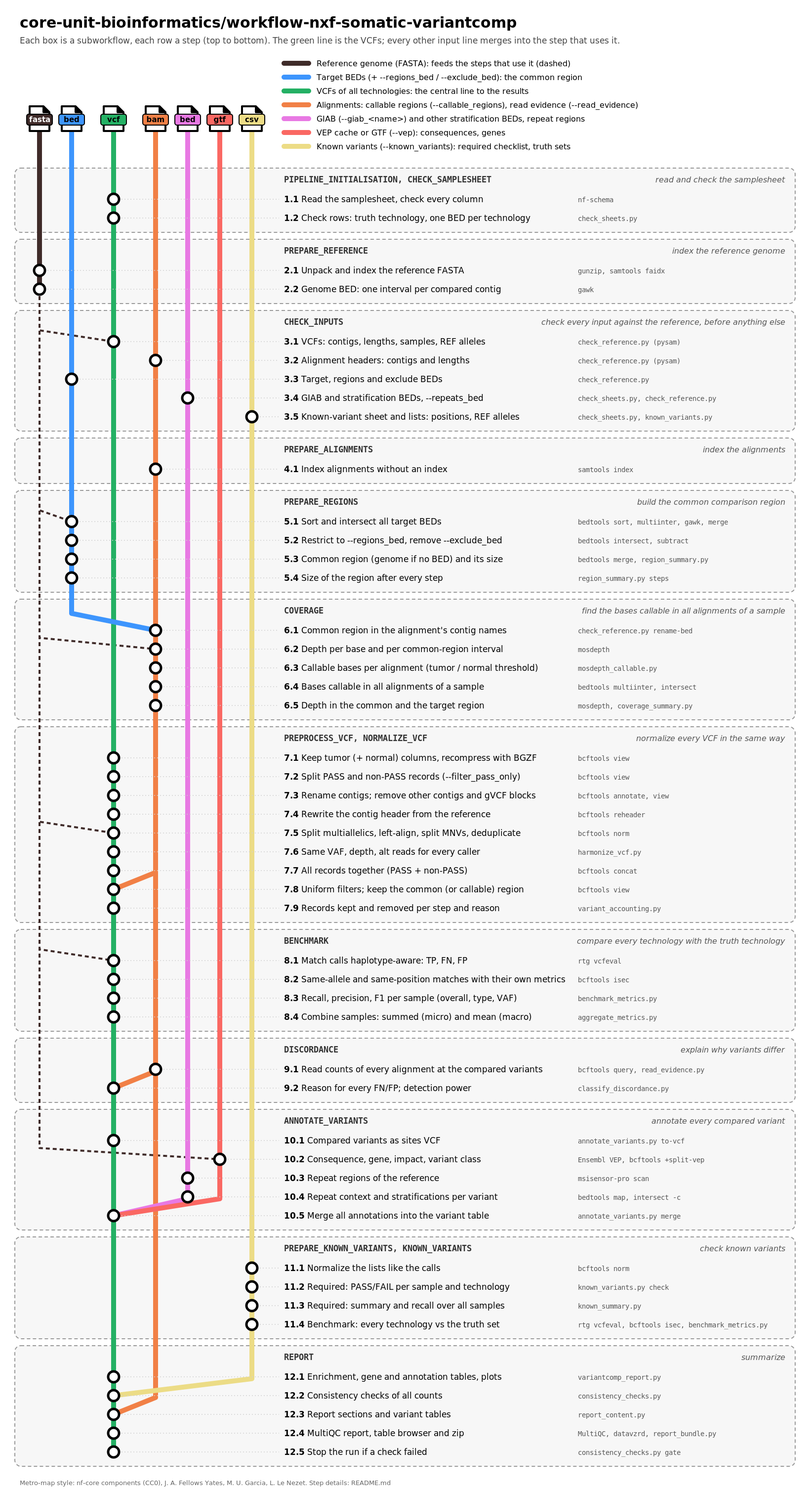
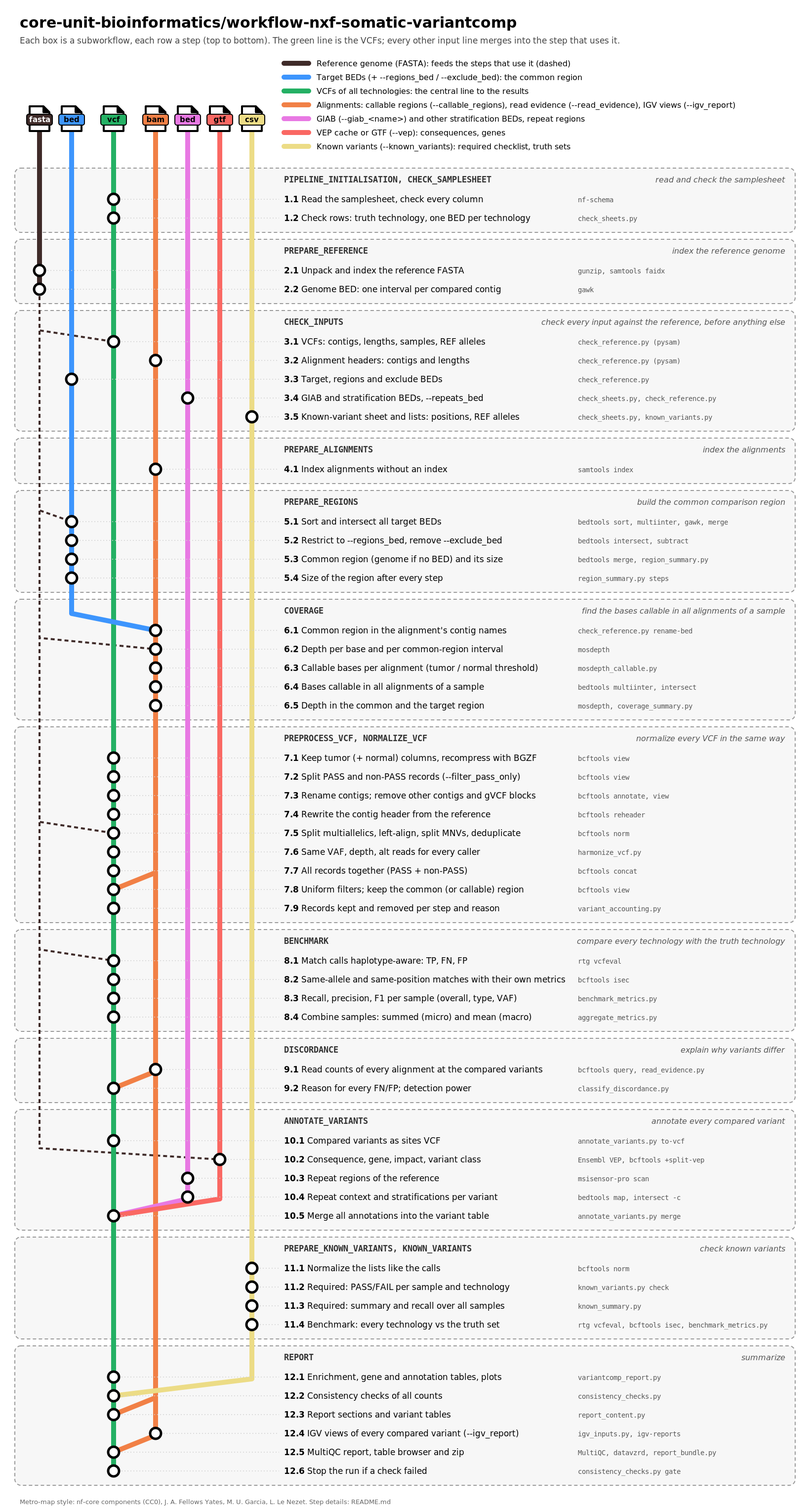
Docs for the IGV views (D40): usage, output, CHANGELOG, citations, metro map step 12.4

diff --git a/scripts/make_metro_map.py b/scripts/make_metro_map.py
@@ -38,7 +38,7 @@ TRACKS = {
     "bam": (
         "#F18046",
         "bam",
-        "Alignments: callable regions (--callable_regions), read evidence (--read_evidence)",
+        "Alignments: callable regions (--callable_regions), read evidence (--read_evidence), IGV views (--igv_report)",
     ),
     "annot": (
         "#E879E3",
@@ -313,11 +313,17 @@ BANDS = [
             ),
             (
                 "12.4",
+                "IGV views of every compared variant (--igv_report)",
+                "igv_inputs.py, igv-reports",
+                "bam",
+            ),
+            (
+                "12.5",
                 "MultiQC report, table browser and zip",
                 "MultiQC, datavzrd, report_bundle.py",
                 "core",
             ),
-            ("12.5", "Stop the run if a check failed", "consistency_checks.py gate", "core"),
+            ("12.6", "Stop the run if a check failed", "consistency_checks.py gate", "core"),
         ],
     ),
 ]
@@ -349,8 +355,8 @@ LINES = [
             "12.1",
             "12.2",
             "12.3",
-            "12.4",
             "12.5",
+            "12.6",
         ],
     ),
     ("ref", ["2.1", "2.2"]),
@@ -358,6 +364,7 @@ LINES = [
     ("bam", ["3.2", "4.1", "6.1", "6.2", "6.3", "6.4", "7.8"]),
     ("bam", ["6.4", "6.5", "12.3"]),
     ("bam", ["6.4", "9.1", "9.2"]),
+    ("bam", ["9.1", "12.4", "12.5"]),
     ("annot", ["3.4", "10.3", "10.4", "10.5"]),
     ("vep", ["10.2", "10.5"]),
     ("known", ["3.5", "11.1", "11.2", "11.3", "11.4", "12.2"]),
@@ -413,8 +420,9 @@ DETAILS = {
     "12.1": "Are discordant variants enriched for indels, low VAF, non-synonymous consequences, repeats, strata or genes (Fisher's exact test, Benjamini-Hochberg from SciPy)? Discordance per annotation value, gene table, plots.",
     "12.2": "At the end: do the counts of all steps add up (accounting per VCF, metrics vs. variant tables, aggregation over samples, discordance classes, regions, required variants)? `report/consistency_checks.tsv`.",
     "12.3": "The variantcomp sections of the MultiQC report (summary cards, introduction, recall/precision per sample with a toggle of the matching method, truth variants found, known variants, why variants differ, discordant variants in detail, metrics per sample, region in Mbp, filtering, coverage, checks; vertical bars with the samples on the x-axis) and the linked variant tables of datavzrd (gene and HGVS.p first, coloured status columns, links to dbSNP, COSMIC, Ensembl).",
-    "12.4": "MultiQC: the main report, results first, then the QC of every step (input checks, bcftools norm, harmonization, mosdepth, VEP) and the software versions; datavzrd: `report/tables/`, with the MultiQC report as a page; `report/variantcomp_report.zip` with both reports.",
-    "12.5": "A failed consistency check stops the run with an error, after all reports were written.",
+    "12.4": "With `--igv_report`: one igv-reports page per sample (in parts of `--igv_max_sites` sites) with every compared variant and the required known variants, the tumor and normal alignment and the normalized VCF of every technology; igv.js is inlined, so the pages work offline. Every variant table links its row to the page (`#<variant_id>`): `report/igv/`.",
+    "12.5": "MultiQC: the main report, results first, then the QC of every step (input checks, bcftools norm, harmonization, mosdepth, VEP) and the software versions; datavzrd: `report/tables/`, with the MultiQC report as a page; `report/variantcomp_report.zip` with both reports and the IGV views.",
+    "12.6": "A failed consistency check stops the run with an error, after all reports were written.",
 }
 
 # geometry

diff --git a/docs/pipeline-plan.md b/docs/pipeline-plan.md
@@ -411,6 +411,7 @@ vcf-comp-dev/                                  # workspace (no git)
 | D37 | MultiQC as the main report (user, 2026-10-26; replaces the narrative report of D33) | The MultiQC report is the main report: variantcomp sections (`bin/report_content.py`, `REPORT_CONTENT`) first, ordered by importance (Summary cards with recall/precision/F1 per matching method, Introduction as lists, recall vs. precision scatter 0-1 with hover and a method toggle, truth variants found, known variants, why variants differ, discordant variants in detail, metrics per sample, region in Mbp with every target BED, filtering, coverage), then the QC of the steps, consistency checks, methods and versions. Bar plots are vertical with the samples on the x-axis (Plotly of the MultiQC report, following the toolbox; MultiQC's own bars are horizontal only). No table with more than 15 variant rows in MultiQC: the variant tables live in datavzrd, which gets descriptions, gene + HGVS.p first, coloured status columns, links (GeneCards, Ensembl, dbSNP, COSMIC), detail views and a page with the MultiQC report. VEP `--hgvs` by default; `reasons` column with every discordance reason. `report/variantcomp_report.zip` packs both reports with working links (`bin/report_bundle.py`). Addendum (user, 2026-10-26): start page `main.html` (table browser opened on its MultiQC page), Venn diagrams of the reasons of FN and FP, VEP strictly offline (online options refused; GTF mode is offline by itself, `--offline` with `--gtf` needs a cache, so it is not added). |
 | D38 | Correctness of matching and discordance (user, 2026-10-28) | (1) Every matching method is published under the name of its tool (`benchmark/rtgtools_vcfeval/`, `bcftools_isec_exact/`, `bcftools_isec_position/`, `benchmark/metrics/` with a column `method` and one table pair per method); every variant row has its isec status; a synthetic event (E15) proves that the methods are computed separately. (2) Reasons: exactly one main reason per discordant variant, describing the call and the reads of the technology that misses it (`filtered_non_pass`, `present_but_filtered`; not called: `absent`, `low_coverage`, `subthreshold_evidence`, `no_evidence`); further reasons in addition: `germline_in_normal` and the context (`indel`, `low_vaf`, `in_repeat`, GIAB and other stratifications). `reasons` is the default in the tables; `class` (= main reason) stays in the TSVs for the stacked plots and checks. (3) Read evidence by `read_evidence.py` (allele-specific; indels by haplotype sequence) instead of `bcftools mpileup`, which reported other indel alleles than the callers. (4) End-of-run checks of the reason model, the isec status and the read evidence of TP variants. (5) Venn diagrams per sample of truth and query instead of Venn diagrams of the reasons. |
 | D39 | The MultiQC report as a book (user, 2026-10-28) | Six numbered chapters, each a MultiQC custom-content module (`parent_id` `vc_ch_<chapter>`) with an introduction: 1 Summary (1.1 results at a glance to 1.7 truth variants found; the metrics per sample follow the recall/precision plot), 2 Known variants, 3 Discordance (why variants differ, discordant variants in detail), 4 Variant filtering (input variant sets with a funnel of the preprocessing steps, then normalization, harmonization and VEP), 5 Coverage and genomic regions (region first, then coverage and mosdepth), 6 Methods and quality control (consistency checks, input checks, methods description, software versions, workflow summary). Sections are numbered; tool modules can't be nested, so `assets/multiqc_config.yml` numbers and orders them after their chapter and CSS indents them like sections. Section descriptions are markdown (what is shown, bullets, bold key terms); larger text. The funnel follows the normalization chain (PASS filter, contigs, gVCF blocks, normalization, harmonization, uniform filters and region; normalization comes before harmonization). A chapter without input (known variants, coverage) shows a note, so the numbers stay the same. |
+| D40 | IGV views of every investigated variant (user, 2026-11-11) | Optional `--igv_report` (default false; needs the tumor BAM of every row and the normal BAM of every row with a `normal_id`; the run stops at the start otherwise). igv-reports (`create_report`, bioconda 1.16.0, nf-core module `igvreports` patched for a track config, a template and the newer version). Sites: every compared variant (TP/FN/FP of every comparison, as in datavzrd `compared-variants`) plus the `required` known variants, one row per `variant_id` with status/reasons per comparison. Tracks per sample: tumor and normal BAM of **every** technology (truth first, tumor before normal) and the normalized VCF of every technology (includes non-PASS calls). One report per sample, split into parts of at most `--igv_max_sites` sites (`report/igv/<sample>_<part>_report.html`, the name the nf-core module writes) plus `report/igv/index.html` and `report/igv/igv_links.tsv`, because all read data is embedded in the HTML. Offline: igv.js 3.5.2 (MIT) ships in `assets/igv/` (`--igv_js`) and is inlined into a pipeline template, which also opens the row of `#<variant_id>` (deep link; igv-reports has none). Every datavzrd table with a `variant_id` gets an `igv` link column to `../../igv/<sample>_<part>_report.html#<variant_id>`; the reports are part of `variantcomp_report.zip`. Duplicate-flagged reads are hidden, except for amplicon libraries (as for coverage). |
 | – | Open (2026-10-08) | The discordance class `outside_callable` can't occur, because both technologies of a sample share the comparison region; such calls are `present_but_filtered`. To discuss: drop the class or define it differently (e.g. call outside the *query* technology's own callable region). |
 | D39 | Reasons of concordant variants, table column order (user, 2026-11-11) | The further reasons (`germline_in_normal`, `indel`, `low_vaf`, `in_repeat`, GIAB and other stratifications) are added to TP rows as well, after `concordant`, so the tables show which hard variants were still found by both technologies. `low_vaf` of a TP uses the truth VAF (as the recall by VAF bin). The main reasons stay FN/FP only; the MultiQC section "Why variants differ" counts discordant variants only; `consistency_checks.py` checks the TP reasons with the same rules. datavzrd variant tables start with `sample`, `gene`, `hgvsp`, `status`, `truth`, `query`, the VAF/depth of truth, query and normal, `reasons`, then `consequence`; the combined column `variant` comes last. |
 | D13 | Callers (implementation, 2026-10-08) | No caller profiles are needed (D10): the `caller` samplesheet column is informational. |

diff --git a/docs/output.md b/docs/output.md
@@ -28,6 +28,7 @@ line. Missing values are `NA` (numbers) or `.` (names, alleles).
 - [Discordance](#discordance) - why variants differ, with read evidence and annotation
 - [Annotation](#annotation) - VEP consequences and repeat regions
 - [Known variants](#known-variants) - required variants and external truth sets
+- [IGV views](#igv-views) - reads and calls of every investigated variant (`--igv_report`)
 - [Report](#report) - the MultiQC report (main report), the table browser, the zip to send
   both, the consistency checks, enrichment statistics, gene and annotation tables, plots
 - [MultiQC](#multiqc) - output files and configuration of the MultiQC report
@@ -45,6 +46,7 @@ Tools that produce each output folder (citations in [`CITATIONS.md`](../CITATION
 | `discordance/` | `bcftools query`, `read_evidence.py` (pysam), `classify_discordance.py`, `annotate_variants.py` |
 | `annotation/` | Ensembl VEP, `bcftools +split-vep`, msisensor-pro, `bedtools map`, `bedtools intersect` |
 | `known_variants/` | `known_variants.py`, `bcftools norm`, `bcftools isec`, `rtg vcfeval`, `benchmark_metrics.py`, `known_summary.py` |
+| `report/igv/` | `igv_inputs.py` (steps `IGV_SITES`, `IGV_TRACKS`, `IGV_TEMPLATE`, `IGV_INDEX`), `samtools view`, [igv-reports](https://github.com/igvteam/igv-reports) 1.16.0 `create_report` (nf-core module `igvreports`, patched; step `IGVREPORTS`), igv.js 3.5.2 |
 | `report/` | `variantcomp_report.py` (pandas, SciPy, Matplotlib), `consistency_checks.py`, `report_content.py` (pandas), datavzrd, `report_bundle.py` |
 | `multiqc/` | MultiQC (with the sections of `report_content.py`; plots with the Plotly library bundled in MultiQC), `mqc_tables.py` |
 
@@ -537,6 +539,60 @@ Annotation columns of `discordance/variants.annotated.tsv`:
 
 </details>
 
+### IGV views
+
+<details markdown="1">
+<summary>Output files (only with <code>--igv_report</code>)</summary>
+
+- `report/igv/`
+  - `<sample>_<part>_report.html`: one self-contained page per sample and part (`part` is
+    1-based with at least 3 digits, e.g. `P01_001_report.html`).
+  - `index.html`: one row per page: sample, part, number of sites, link; links to the
+    MultiQC report and the tables.
+  - `igv_links.tsv`: `variant_id`, `sample`, `part`, `igv_file`.
+
+</details>
+
+Each page shows a table of sites above an IGV view (igv.js) with the tracks of the sample:
+the tumor and normal alignment of every technology (truth technology first) and the
+normalized VCF of every technology, including non-PASS records. Open a page at a variant
+with `<page>.html#<variant_id>`; clicking a row updates the address, so it can be copied,
+and the arrow keys step through the rows. The pages need no internet connection. How the
+sites are chosen, the duplicate handling, size and tested inputs are described in
+[usage](usage.md#igv-views).
+
+Columns of the site table:
+
+| Column | Meaning |
+| --- | --- |
+| `variant_id` | `sample:chrom:pos:ref>alt`. |
+| `chrom`, `pos` | Contig and 1-based position. |
+| `end` | Last REF base (1-based, inclusive). |
+| `gene` | Gene, if annotated. |
+| `type` | Variant type (SNV, indel). |
+| `status_<c>` | TP, FN or FP in comparison `<c>`; `.` = the variant is not in that comparison. |
+| `reasons_<c>` | Reasons of the discordance in comparison `<c>`; `.` as above. |
+| `known_required` | `yes`/`no`: the variant is in a `required` known-variant list. |
+| `required_<technology>` | `PASS` or `FAIL_*` per technology; only if required variants exist. |
+
+`<c>` is the query technology, or `<truth>_vs_<query>` with `--comparison_mode all_pairs`.
+
+The datavzrd tables `compared-variants`, `discordant-variants`, `truth-variants`,
+`required-variants` and `removed-records` have a column `igv` (label "IGV") that opens the
+page at the variant in a new window; it is empty for a variant without a page (for example
+a removed record that is not a site). `known-benchmark` has no `variant_id` and no IGV
+column. `report/variantcomp_report.zip` includes `report/igv/*.html`, `main.html` links to
+`report/igv/index.html`, and the introduction of MultiQC chapter 3 links the index.
+
+Consistency checks (category `igv`): per sample "compared variants without IGV page" = 0
+and "compared variants with more than one IGV link" = 0; per page "sites per IGV page" at
+most `--igv_max_sites`.
+
+Tools: igv-reports 1.16.0 (`create_report`, nf-core module `igvreports`, patched for a track
+configuration, the template and the newer version), igv.js 3.5.2, `bin/igv_inputs.py`
+(steps `IGV_SITES`, `IGV_TRACKS`, `IGV_TEMPLATE`, `IGV_INDEX`; `IGVREPORTS` runs
+igv-reports).
+
 ### Report
 
 **Start here: `main.html`** at the top of the output folder. It opens the table browser
@@ -717,7 +773,7 @@ not work).
 
 | Column | Type | Meaning |
 | --- | --- | --- |
-| `category` | text | `accounting` (the checks of every `*.checks.tsv`), `benchmark` (per pair: TP_baseline + FN ≥ compared truth records and TP_call + FP ≥ compared query records, equal unless `rtg vcfeval --decompose` splits complex records; FN and FP rows of the variant table = FN and FP of the metrics), `aggregation` (summed counts = sum over the samples), `discordance` (classes add up to FN / FP; every FN/FP has a known class), `regions` (last region step = common region; callable ≤ common region), `known` (passed + failed = required) |
+| `category` | text | `accounting` (the checks of every `*.checks.tsv`), `benchmark` (per pair: TP_baseline + FN ≥ compared truth records and TP_call + FP ≥ compared query records, equal unless `rtg vcfeval --decompose` splits complex records; FN and FP rows of the variant table = FN and FP of the metrics), `aggregation` (summed counts = sum over the samples), `discordance` (classes add up to FN / FP; every FN/FP has a known class), `regions` (last region step = common region; callable ≤ common region), `known` (passed + failed = required), `igv` (every compared variant has exactly one IGV page link; sites per page at most `--igv_max_sites`) |
 | `scope` | text | the sample, VCF or comparison checked |
 | `check` | text | what is checked |
 | `expected`, `observed` | text | the values compared |

diff --git a/README.md b/README.md
@@ -63,12 +63,16 @@ steps that process it and merges into the step that consumes it:
 - **red — VEP cache or GTF (`--vep`):** consequence, gene, impact (step 10.2);
 - **yellow — `--known_variants`:** a required clinical checklist (PASS/FAIL per sample,
   technology and variant) or an external truth set; merges into the report.
+- **IGV views (`--igv_report`):** an optional step after the report tables (step 12.4,
+  on the orange line): the alignments of every technology and the normalized VCFs are
+  embedded around every compared and required variant with igv-reports (`IGV_SITES`,
+  `IGV_TRACKS`, `IGV_TEMPLATE`, `IGVREPORTS`, `IGV_INDEX`; igv.js, offline);
+  needs the tumor and normal BAMs.
 
 Every step runs one tool (mostly nf-core modules) or one script of `bin/`; the options of
 every step are set in `conf/modules/<subworkflow>.config`.
 
 <!-- steps:start (generated: scripts/make_metro_map.py --markdown) -->
-
 | Step | What happens | Tools | Line |
 | --- | --- | --- | --- |
 | **PIPELINE_INITIALISATION, CHECK_SAMPLESHEET** | _read and check the samplesheet_ | | |
@@ -129,9 +133,9 @@ every step are set in `conf/modules/<subworkflow>.config`.
 | 12.1 | **Enrichment, gene and annotation tables, plots.** Are discordant variants enriched for indels, low VAF, non-synonymous consequences, repeats, strata or genes (Fisher's exact test, Benjamini-Hochberg from SciPy)? Discordance per annotation value, gene table, plots. | `variantcomp_report.py` | VCFs of all technologies |
 | 12.2 | **Consistency checks of all counts.** At the end: do the counts of all steps add up (accounting per VCF, metrics vs. variant tables, aggregation over samples, discordance classes, regions, required variants)? `report/consistency_checks.tsv`. | `consistency_checks.py` | VCFs of all technologies |
 | 12.3 | **Report sections and variant tables.** The variantcomp sections of the MultiQC report (summary cards, introduction, recall/precision per sample with a toggle of the matching method, truth variants found, known variants, why variants differ, discordant variants in detail, metrics per sample, region in Mbp, filtering, coverage, checks; vertical bars with the samples on the x-axis) and the linked variant tables of datavzrd (gene and HGVS.p first, coloured status columns, links to dbSNP, COSMIC, Ensembl). | `report_content.py` | VCFs of all technologies |
-| 12.4 | **MultiQC report, table browser and zip.** MultiQC: the main report, results first, then the QC of every step (input checks, bcftools norm, harmonization, mosdepth, VEP) and the software versions; datavzrd: `report/tables/`, with the MultiQC report as a page; `report/variantcomp_report.zip` with both reports. | `MultiQC, datavzrd, report_bundle.py` | VCFs of all technologies |
-| 12.5 | **Stop the run if a check failed.** A failed consistency check stops the run with an error, after all reports were written. | `consistency_checks.py gate` | VCFs of all technologies |
-
+| 12.4 | **IGV views of every compared variant (--igv_report).** With `--igv_report`: one igv-reports page per sample (in parts of `--igv_max_sites` sites) with every compared variant and the required known variants, the tumor and normal alignment and the normalized VCF of every technology; igv.js is inlined, so the pages work offline. Every variant table links its row to the page (`#<variant_id>`): `report/igv/`. | `igv_inputs.py, igv-reports` | Alignments |
+| 12.5 | **MultiQC report, table browser and zip.** MultiQC: the main report, results first, then the QC of every step (input checks, bcftools norm, harmonization, mosdepth, VEP) and the software versions; datavzrd: `report/tables/`, with the MultiQC report as a page; `report/variantcomp_report.zip` with both reports and the IGV views. | `MultiQC, datavzrd, report_bundle.py` | VCFs of all technologies |
+| 12.6 | **Stop the run if a check failed.** A failed consistency check stops the run with an error, after all reports were written. | `consistency_checks.py gate` | VCFs of all technologies |
 <!-- steps:end -->
 
 All tools and datasets, with their authors and publications, are listed in
@@ -157,6 +161,10 @@ menu at the top switches to the variant tables.
   to the compared variants, normalization, harmonization, VEP), **5 Coverage and genomic
   regions**, **6 Methods and quality control** (consistency checks, input checks, methods,
   versions).
+- **IGV views** (`report/igv/`, only with `--igv_report`): per sample, pages with the reads
+  of the tumor and normal alignment of every technology and the called variants around every
+  compared and required variant, opened from the `IGV` column of the variant tables or from
+  `report/igv/index.html`; offline (igv-reports, igv.js).
 - **Table browser** (`report/tables/`, datavzrd): every truth, compared and discordant
   variant with gene and HGVS.p first, reasons, links to GeneCards, Ensembl, dbSNP and
   COSMIC.

diff --git a/docs/usage.md b/docs/usage.md
@@ -434,6 +434,57 @@ technology, is compared with it by `rtg vcfeval` within `regions` ∩ the compar
 with the same metrics as the main benchmark. If the list contains a VAF (VCF `INFO/TVAF`,
 `VAF` or `AF`, or the TSV column `vaf`), recall is also stratified by it.
 
+## IGV views
+
+`--igv_report` writes interactive IGV views of every investigated variant: the reads of
+all technologies and the called variants side by side, in self-contained HTML pages
+(`report/igv/`, see [output](output.md#igv-views)).
+
+| Parameter | Default | Description |
+| --- | --- | --- |
+| `--igv_report` | `false` | Write the IGV views. Needs the tumor BAM of every samplesheet row and the normal BAM of every row with a `normal_id`; otherwise the run stops at the start with an error that names this parameter. |
+| `--igv_max_sites` | `100` | Maximum number of sites (variants) per page, minimum 1. A sample with more sites is split into several pages (parts), because all reads are embedded in the HTML file. |
+| `--igv_flanking` | `200` | Bases of alignments embedded around a site (igv-reports puts half on each side). |
+| `--igv_window` | `100` | Width in bp of the initial view around a site. `0` uses the igv.js default. Must be at most `--igv_flanking`, otherwise `IGV_SITES` stops with an error. |
+| `--igv_subsample` | `1` | Fraction (0 to 1) of the reads embedded; passed as `--subsample` to igv-reports only if below 1. |
+| `--igv_sampling_depth` | `500` | `samplingDepth` of every igv.js alignment track: at most this many reads are drawn per window. Display only, the embedded reads are not changed. |
+| `--igv_js` | `null` | Local `igv.min.js` to inline into the pages. `null` uses `assets/igv/igv.min.js` (igv.js 3.5.2). Nothing is downloaded at run time. |
+
+Duplicates: `--amplicon_keep_duplicates` (see [Coverage](#coverage-and-callable-regions)) is
+reused for the views.
+
+**Which variants become sites.** Every compared variant (TP, FN and FP of every
+comparison, from `discordance/variants.annotated.tsv`, the rows of the datavzrd table
+`compared-variants`) and every variant of a `required` known-variant list
+(`known_variants/required_variants.tsv`). There is one site per `variant_id`
+(`sample:chrom:pos:ref>alt`) with its status and reasons in every comparison.
+
+**Tracks of a page** (one page per sample and part):
+
+1. the tumor alignment, then the normal alignment, of every technology: the truth
+   technology first, then the other technologies in samplesheet order;
+2. the normalized VCF of every technology, including the non-PASS records, so that a
+   variant that was called but filtered is visible.
+
+**Duplicates.** Before the reads are embedded, `samtools view` removes reads with the
+flags 1536 (duplicates and QC-fail). If a library of the sample is an amplicon library and
+`--amplicon_keep_duplicates` is set, only 512 (QC-fail) is excluded. In addition the igv.js
+filter hides duplicates in the tracks of non-amplicon libraries.
+
+**Offline.** igv.js is inlined into the page template, so the pages open without an
+internet connection.
+
+**Size.** All reads around the sites are embedded in the HTML. Measured on SEQC2 small
+(WES about 150-500x, WGS about 40x, four alignments per sample): 0.18-0.27 MB per site plus
+1.3 MB of igv.js per page, so 100 sites are about 20-30 MB. For deep panels lower
+`--igv_max_sites` or `--igv_subsample`.
+
+**Tested inputs.** SEQC2 small (MuTect2 3.8 VCFs, BWA BAMs, chr22), 3 samples x WGS/WES,
+12 BAMs, `-profile test_seqc2,conda` on aarch64. Not tested: CRAM; BAMs whose contig names
+differ from the reference (chr/no-chr): igv-reports aliases the names when it reads the
+BAM, but the embedded reads keep the BAM names, so the display relies on the aliasing of
+igv.js.
+
 ## Filters
 
 The input VCFs are **unfiltered** (all calls with the caller's FILTER column). The pipeline

diff --git a/CHANGELOG.md b/CHANGELOG.md
@@ -21,9 +21,25 @@ Dates follow ISO 8601 (`YYYY-MM-DD`).
   bullets with bold terms, how to read it; larger text in the report.
 - Known variants and coverage are always written as chapters/sections, with a short note
   if their inputs are missing (stable chapter numbers).
+- `check_sheets.py`: `--require-*-bam` options can be repeated.
+- The report bundle `variantcomp_report.zip` includes the IGV pages (`report/igv/*.html`);
+  `main.html` and MultiQC chapter 3 link the IGV index.
+- New consistency check category `igv` (one IGV page link per compared variant, sites per
+  page at most `--igv_max_sites`).
 
 ### `Added`
 
+- **IGV views of every investigated variant** (decision D40, `--igv_report`, default off):
+  self-contained HTML pages per sample and part (`report/igv/<sample>_<part>_report.html`,
+  at most `--igv_max_sites` sites each) with a site table and an igv.js view of the tumor
+  and normal alignment of every technology and the normalized VCFs (including non-PASS
+  records). Sites are all compared variants (TP/FN/FP) and the `required` known variants.
+  Deep links `#<variant_id>`, `report/igv/index.html`, `report/igv/igv_links.tsv`, an `igv`
+  column in the datavzrd tables with a `variant_id`. Uses igv-reports 1.16.0 (nf-core
+  module `igvreports`, patched) and igv.js 3.5.2, shipped in `assets/igv/` (offline); new
+  params `--igv_max_sites`, `--igv_flanking`, `--igv_window`, `--igv_subsample`,
+  `--igv_sampling_depth`, `--igv_js`. Needs the tumor BAM of every row and the normal BAM of
+  every row with a `normal_id`; the run stops at the start otherwise.
 - **Filtering funnel** (section 4.1): one box per preprocessing step in the order of the
   normalization chain (input, PASS filter, contigs, gVCF blocks, normalization,
   harmonization, uniform filters and region, compared), its width the share of the input

diff --git a/CITATIONS.md b/CITATIONS.md
@@ -56,6 +56,14 @@ is in the [README](README.md#pipeline-summary).
 
   > Wiegand F, Lähnemann D, Mölder F, Uzuner H, Prinz A, Schramm A, Köster J. datavzrd: Rapid programming- and maintenance-free interactive visualization and communication of tabular data. PLOS ONE. 2025;20(7):e0323079. doi: 10.1371/journal.pone.0323079.
 
+- [igv-reports](https://github.com/igvteam/igv-reports) (`create_report`: self-contained HTML pages with the reads around a variant; version 1.16.0, MIT license, Broad Institute and the Regents of the University of California; the page template of `assets/igv/variant_template.html` is derived from igv-reports and keeps its MIT license)
+
+  > igv-reports: generate self-contained HTML reports of genomic variants with embedded IGV. https://github.com/igvteam/igv-reports (v1.16.0)
+
+- [igv.js](https://pubmed.ncbi.nlm.nih.gov/36562559/) (interactive genome browser inside the IGV pages; version 3.5.2, MIT license; shipped in `assets/igv/` together with its LICENSE and inlined into the pages, so no download is needed at run time)
+
+  > Robinson JT, Thorvaldsdottir H, Turner D, Mesirov JP. igv.js: an embeddable JavaScript implementation of the Integrative Genomics Viewer (IGV). Bioinformatics. 2023 Jan 1;39(1):btac830. doi: 10.1093/bioinformatics/btac830.
+
 - [MultiQC](https://pubmed.ncbi.nlm.nih.gov/27312411/) (main report; its bundled [Plotly.js](https://plotly.com/javascript/) library, Plotly Technologies Inc., MIT license, draws the vertical bar plots of the variantcomp sections)
 
   > Ewels P, Magnusson M, Lundin S, Käller M. MultiQC: summarize analysis results for multiple tools and samples in a single report. Bioinformatics. 2016 Oct 1;32(19):3047-8. doi: 10.1093/bioinformatics/btw354. PubMed PMID: 27312411; PubMed Central PMCID: PMC5039924.
